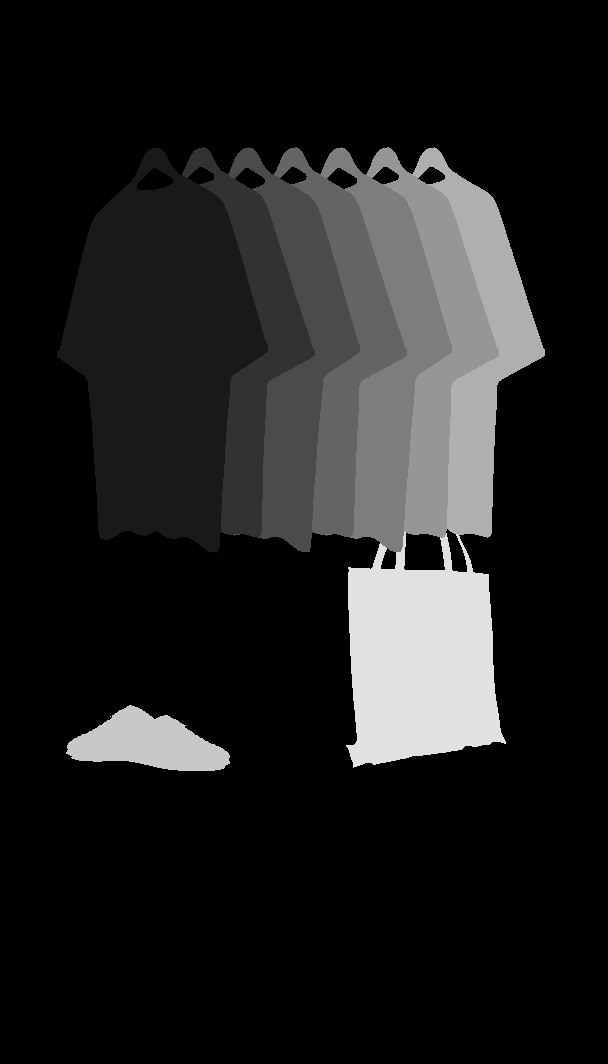
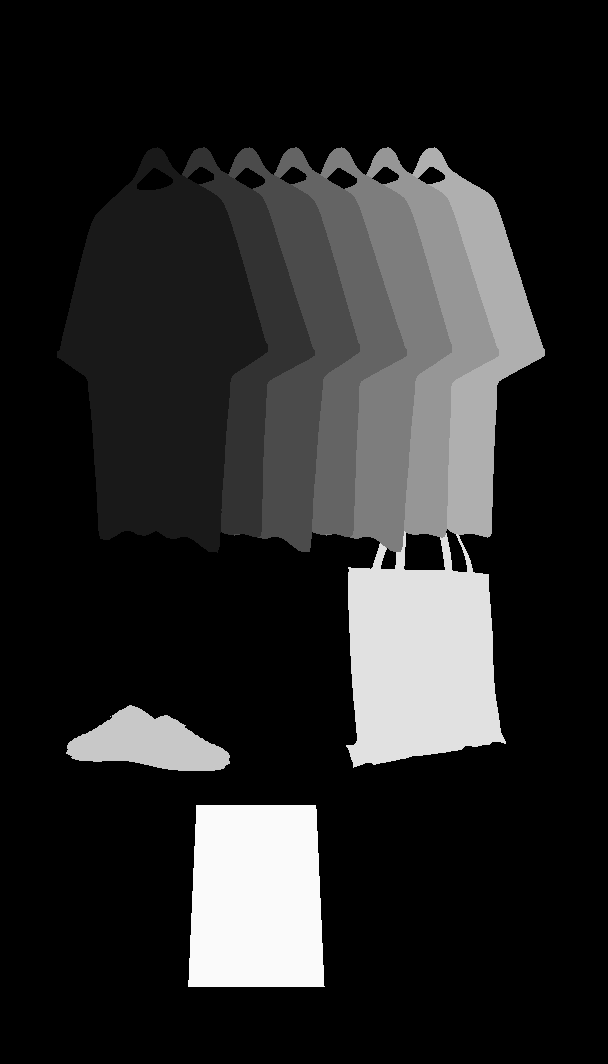
Riviera framed print leaning in the wardrobe's bottom compartment, cleaner source image
Claude-Session: https://claude.ai/code/session_017Ju3v1Wm9qiCWbJhr3avMd

Changed region(s): [[0.3125, 0.7444, 0.5312, 0.9305]]

diff --git a/index.html b/index.html
@@ -42,7 +42,7 @@
   <div class="wr-backdrop" id="wrBackdrop"></div>
   <div class="wr-stage" id="wrStage">
     <div class="wr-world" id="wrWorld">
-      <img class="wr-img wr-room" src="assets/hero/open.jpg" alt="The open ERATO wardrobe: seven t-shirts on the rail, and a tote bag and woven mules on the shelf" draggable="false">
+      <img class="wr-img wr-room" src="assets/hero/open.jpg" alt="The open ERATO wardrobe: seven t-shirts on the rail, a tote bag and woven mules on the shelf, and a framed print below" draggable="false">
       <img class="wr-img wr-closed" id="wrClosed" src="assets/hero/closed.jpg" alt="A hand-painted wardrobe in a sunlit Mediterranean room, doors closed" draggable="false">
       <div class="wr-rack" id="wrRack">
         <img class="wr-rackimg" src="assets/hero/rack.jpg" alt="" draggable="false">
@@ -80,7 +80,7 @@
     </div>
   </div>
 </section>
-<script>window.WR_META={"horse": {"i": 0, "x": 0.09375, "y": 0.13815789473684212, "w": 0.34649122807017546, "h": 0.38095238095238093}, "mughal": {"i": 1, "x": 0.17050438596491227, "y": 0.13815789473684212, "w": 0.3470394736842105, "h": 0.3668546365914787}, "roses": {"i": 2, "x": 0.2450657894736842, "y": 0.13815789473684212, "w": 0.3470394736842105, "h": 0.3806390977443609}, "budapest": {"i": 3, "x": 0.3223684210526316, "y": 0.13815789473684212, "w": 0.3470394736842105, "h": 0.36654135338345867}, "nighthawks": {"i": 4, "x": 0.3969298245614035, "y": 0.13815789473684212, "w": 0.34649122807017546, "h": 0.3806390977443609}, "vertigo": {"i": 5, "x": 0.47368421052631576, "y": 0.13815789473684212, "w": 0.3470394736842105, "h": 0.3668546365914787}, "wave": {"i": 6, "x": 0.5493421052631579, "y": 0.13815789473684212, "w": 0.3470394736842105, "h": 0.3668546365914787}, "shoes": {"i": 7, "x": 0.10800438596491228, "y": 0.6622807017543859, "w": 0.2708333333333333, "h": 0.06234335839598997}, "tote": {"i": 8, "x": 0.5679824561403509, "y": 0.4417293233082707, "w": 0.2637061403508772, "h": 0.2794486215538847}};</script>
+<script>window.WR_META={"horse": {"i": 0, "x": 0.09375, "y": 0.13815789473684212, "w": 0.34649122807017546, "h": 0.38095238095238093}, "mughal": {"i": 1, "x": 0.17050438596491227, "y": 0.13815789473684212, "w": 0.3470394736842105, "h": 0.3668546365914787}, "roses": {"i": 2, "x": 0.2450657894736842, "y": 0.13815789473684212, "w": 0.3470394736842105, "h": 0.3806390977443609}, "budapest": {"i": 3, "x": 0.3223684210526316, "y": 0.13815789473684212, "w": 0.3470394736842105, "h": 0.36654135338345867}, "nighthawks": {"i": 4, "x": 0.3969298245614035, "y": 0.13815789473684212, "w": 0.34649122807017546, "h": 0.3806390977443609}, "vertigo": {"i": 5, "x": 0.47368421052631576, "y": 0.13815789473684212, "w": 0.3470394736842105, "h": 0.3668546365914787}, "wave": {"i": 6, "x": 0.5493421052631579, "y": 0.13815789473684212, "w": 0.3470394736842105, "h": 0.3668546365914787}, "shoes": {"i": 7, "x": 0.10800438596491228, "y": 0.6622807017543859, "w": 0.2708333333333333, "h": 0.06234335839598997}, "tote": {"i": 8, "x": 0.5679824561403509, "y": 0.4417293233082707, "w": 0.2637061403508772, "h": 0.2794486215538847}, "print": {"i": 9, "x": 0.3086622807017544, "y": 0.7559523809523809, "w": 0.22478070175438597, "h": 0.17167919799498746}};</script>
 
 <section class="intro" id="concept">
   <p class="section-eyebrow reveal">About ERATO</p>

diff --git a/js/wardrobe.js b/js/wardrobe.js
@@ -18,7 +18,8 @@
   ].map(t => Object.assign(t, { group:'tees', meta: t.col + ' \u00b7 USD 44', ar: 0.711, alt: t.name + ' t-shirt, back' }));
   const ITEMS = TEES.concat([
     { k:'shoes', slug:'loom',         name:'Loom',         col:'Mule', tone:'light', group:'shelf', meta:'Handmade Balinese leather \u00b7 USD 220', ar:1.32, alt:'Loom woven leather mules' },
-    { k:'tote',  slug:'marble-study', name:'Marble Study', col:'Tote', tone:'dark',  group:'shelf', meta:'100% cotton tote \u00b7 USD 18', ar:0.543, alt:'Marble Study tote bag' }
+    { k:'tote',  slug:'marble-study', name:'Marble Study', col:'Tote', tone:'dark',  group:'shelf', meta:'100% cotton tote \u00b7 USD 18', ar:0.543, alt:'Marble Study tote bag' },
+    { k:'print', slug:'riviera', name:'Riviera', col:'Print', tone:'light', group:'floor', meta:'Framed print \u00b7 from USD 59', ar:0.726, alt:'Riviera framed print' }
   ]);
   const href = t => 'product-' + t.slug + '.html';
   const RACK = { x: 0.38542, y: 0.17593, w: 0.19792, h: 0.61574 };

diff --git a/CLAUDE.md b/CLAUDE.md
@@ -10,7 +10,7 @@ Owner: Ali (Layer Nine / ERATO). Currency: USD. Tees USD 44, totes USD 24, print
 - Local preview: `python3 -m http.server 8767` from repo root (wardrobe hover needs http, not file://).
 
 ## Hero (index.html + js/wardrobe.js)
-Flow now: closed → click → doors open (NO zoom) → click an item (tee/tote/shoes) zooms to its group (tees / shelf / floor) → click item = pull-out dialog. Items: 7 tees, shoes (Loom, USD 220, Balinese leather, black/navy/redbrown variants in assets/products/loom-*.jpg) and tote (Marble Study, USD 18, 38x42cm cotton) both on the shelf, real scale (~4.3 native px per cm). label.png values = (index+1)*25; ITEMS order must match: tees 0-6, shoes 7, tote 8. Rack overlay covers world y .17593–.7917 (h .61574).
+Flow now: closed → click → doors open (NO zoom) → click an item (tee/tote/shoes) zooms to its group (tees / shelf / floor) → click item = pull-out dialog. Items: 7 tees, shoes (Loom, USD 220, Balinese leather, black/navy/redbrown variants in assets/products/loom-*.jpg) and tote (Marble Study, USD 18, 38x42cm cotton) both on the shelf, real scale (~4.3 native px per cm). label.png values = (index+1)*25; ITEMS order must match: tees 0-6, shoes 7, tote 8, framed print (Riviera) 9 leaning in the bottom compartment (group floor). Rack overlay covers world y .17593–.7917 (h .61574).
 Closed 16:9 room photo → hover "open me" → doors part → rack of 7 tees → zoom → hover/click pulls tee out ("Buy me" / "Know me better") → product page.
 Assets in assets/hero/: closed.jpg, open.jpg (2560x1440), rack.jpg, label.png (hover lookup, value = (index+1)*30), layer-<key>.webp, pull-<key>.webp, meta.json.
 Constants in wardrobe.js: ASPECT 16/9, RACK {x:.38542,y:.17593,w:.19792,h:.46296}, TEES array (key, slug, name, colour, tone).
